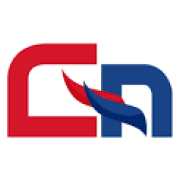
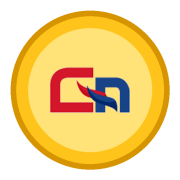
Cambia el icono de la pestana por la moneda de puntos
Moneda dorada con el monograma CN, alusiva a los puntos de premios.
Se agrega ?v=2 a los enlaces para renovar el icono en cache.

diff --git a/login/index.php b/login/index.php
@@ -9,9 +9,9 @@ session_start();
 <head>
   <meta http-equiv="Content-Type" content="text/html; charset=utf-8" />
   <title>Inicio de Sesion</title>
-  <link rel="icon" type="image/png" sizes="32x32" href="../app/img/marca/favicon-32.png" />
-  <link rel="icon" type="image/png" sizes="192x192" href="../app/img/marca/favicon-192.png" />
-  <link rel="apple-touch-icon" href="../app/img/marca/apple-touch-icon.png" />
+  <link rel="icon" type="image/png" sizes="32x32" href="../app/img/marca/favicon-32.png?v=2" />
+  <link rel="icon" type="image/png" sizes="192x192" href="../app/img/marca/favicon-192.png?v=2" />
+  <link rel="apple-touch-icon" href="../app/img/marca/apple-touch-icon.png?v=2" />
   <!--begin::Primary Meta Tags-->
   <meta name="viewport" content="width=device-width, initial-scale=1.0" />
   <meta name="title" content="" />

diff --git a/app/layout/head.php b/app/layout/head.php
@@ -2,9 +2,9 @@
 <meta name="viewport" content="width=device-width, initial-scale=1">
 
 <!-- Icono de la pestana -->
-<link rel="icon" type="image/png" sizes="32x32" href="../app/img/marca/favicon-32.png">
-<link rel="icon" type="image/png" sizes="192x192" href="../app/img/marca/favicon-192.png">
-<link rel="apple-touch-icon" href="../app/img/marca/apple-touch-icon.png">
+<link rel="icon" type="image/png" sizes="32x32" href="../app/img/marca/favicon-32.png?v=2">
+<link rel="icon" type="image/png" sizes="192x192" href="../app/img/marca/favicon-192.png?v=2">
+<link rel="apple-touch-icon" href="../app/img/marca/apple-touch-icon.png?v=2">
 
 <!-- Fuentes -->
 <link rel="stylesheet" href="https://cdn.jsdelivr.net/npm/@fontsource/source-sans-3@5.0.12/index.css">
